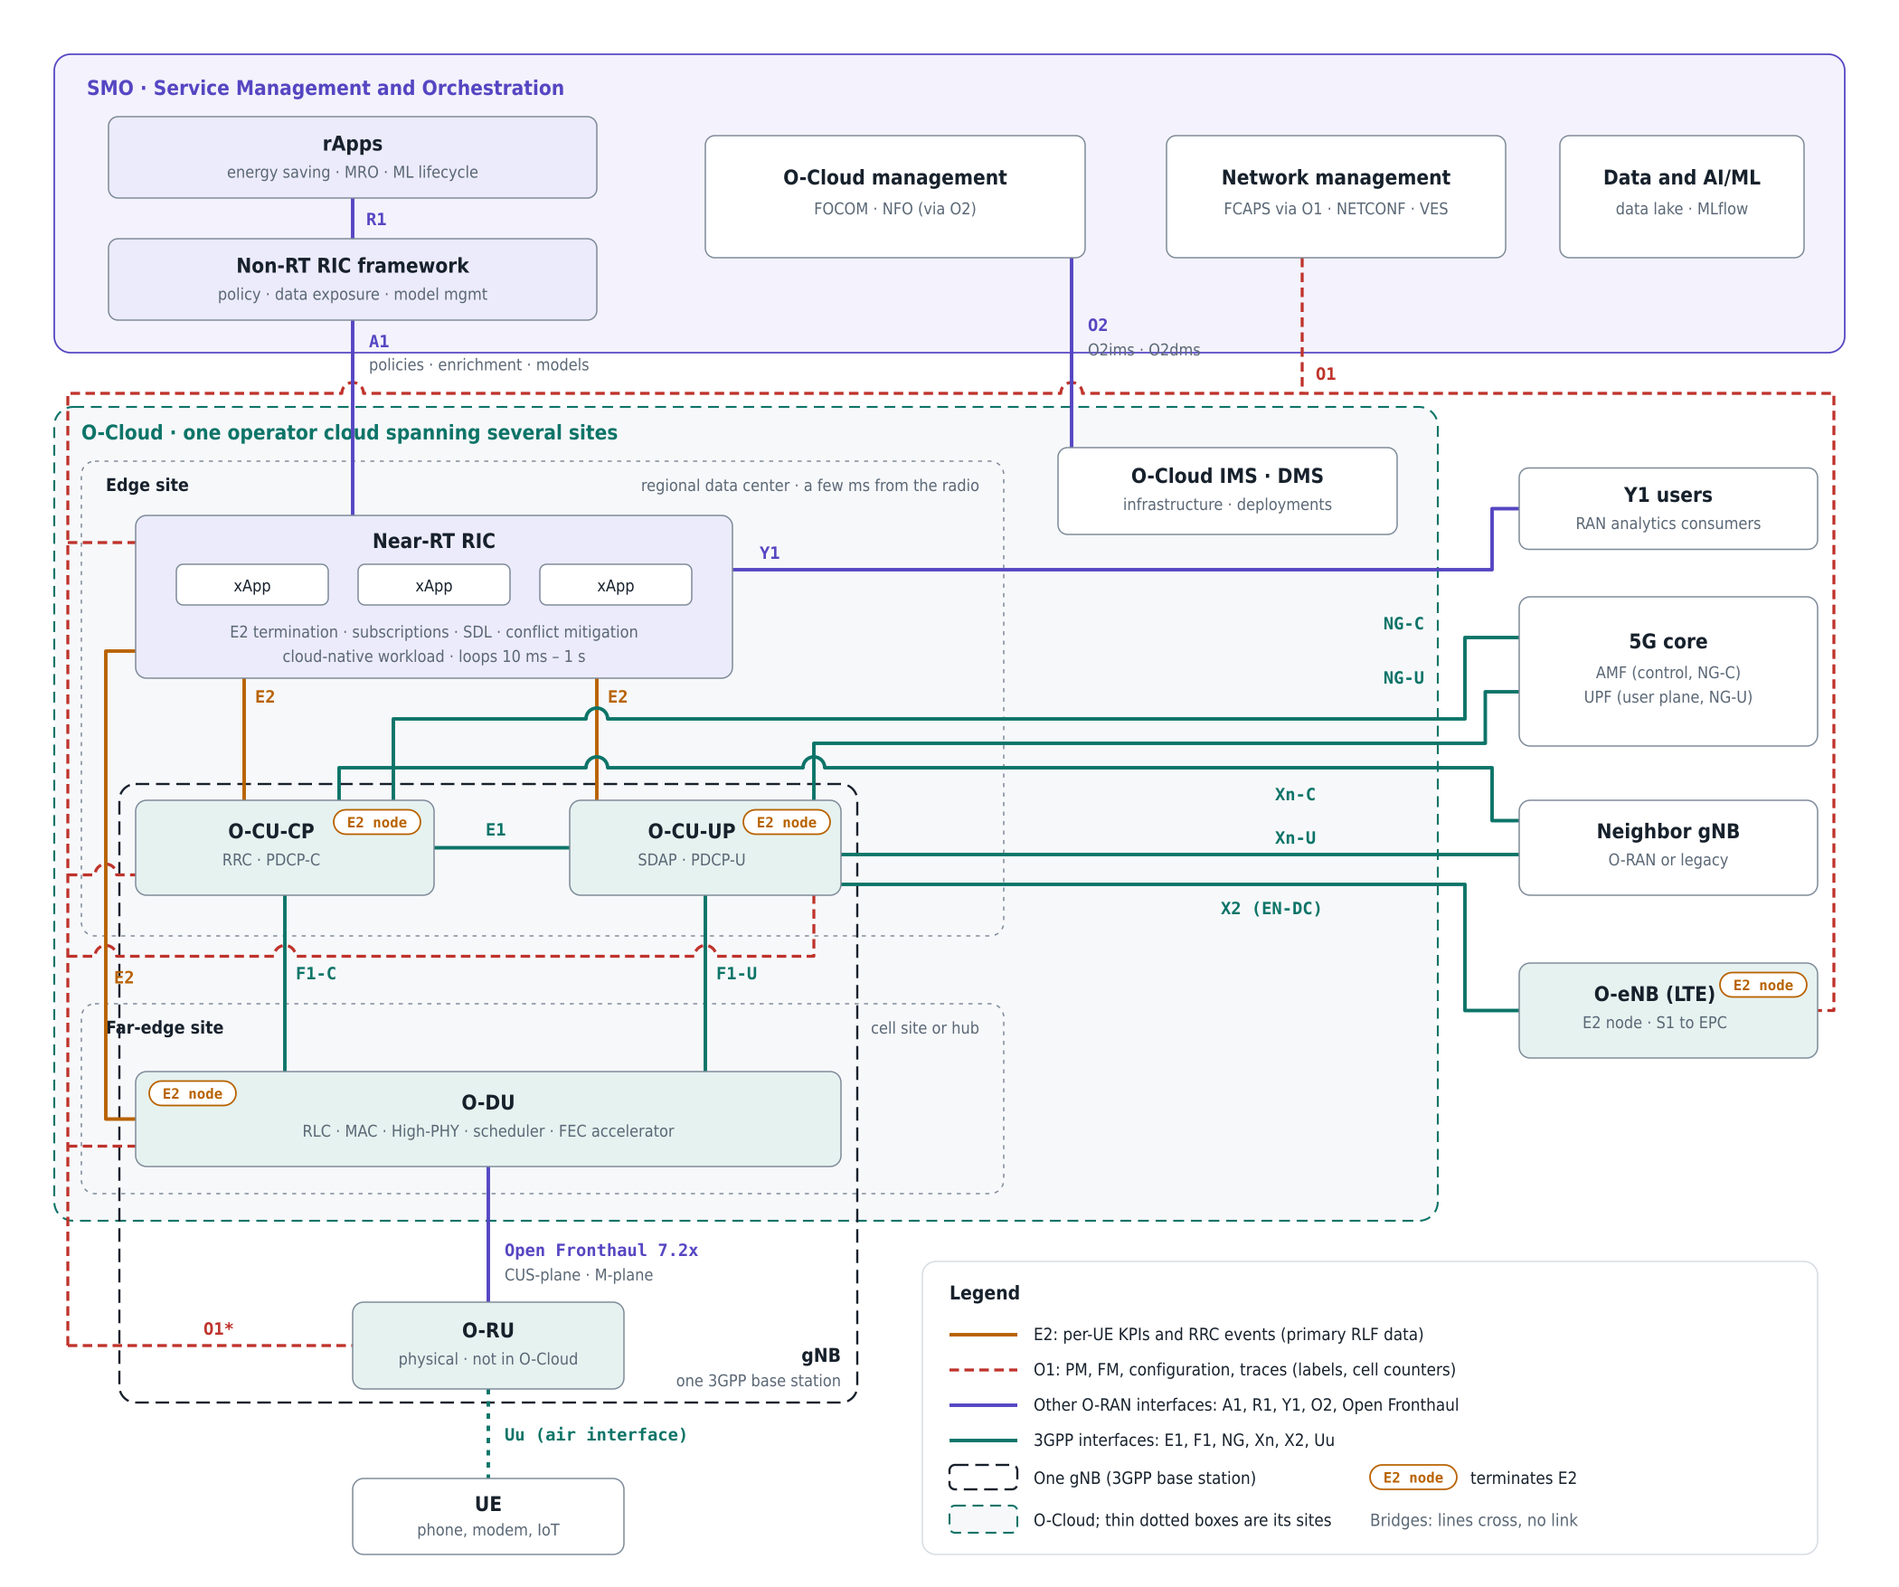
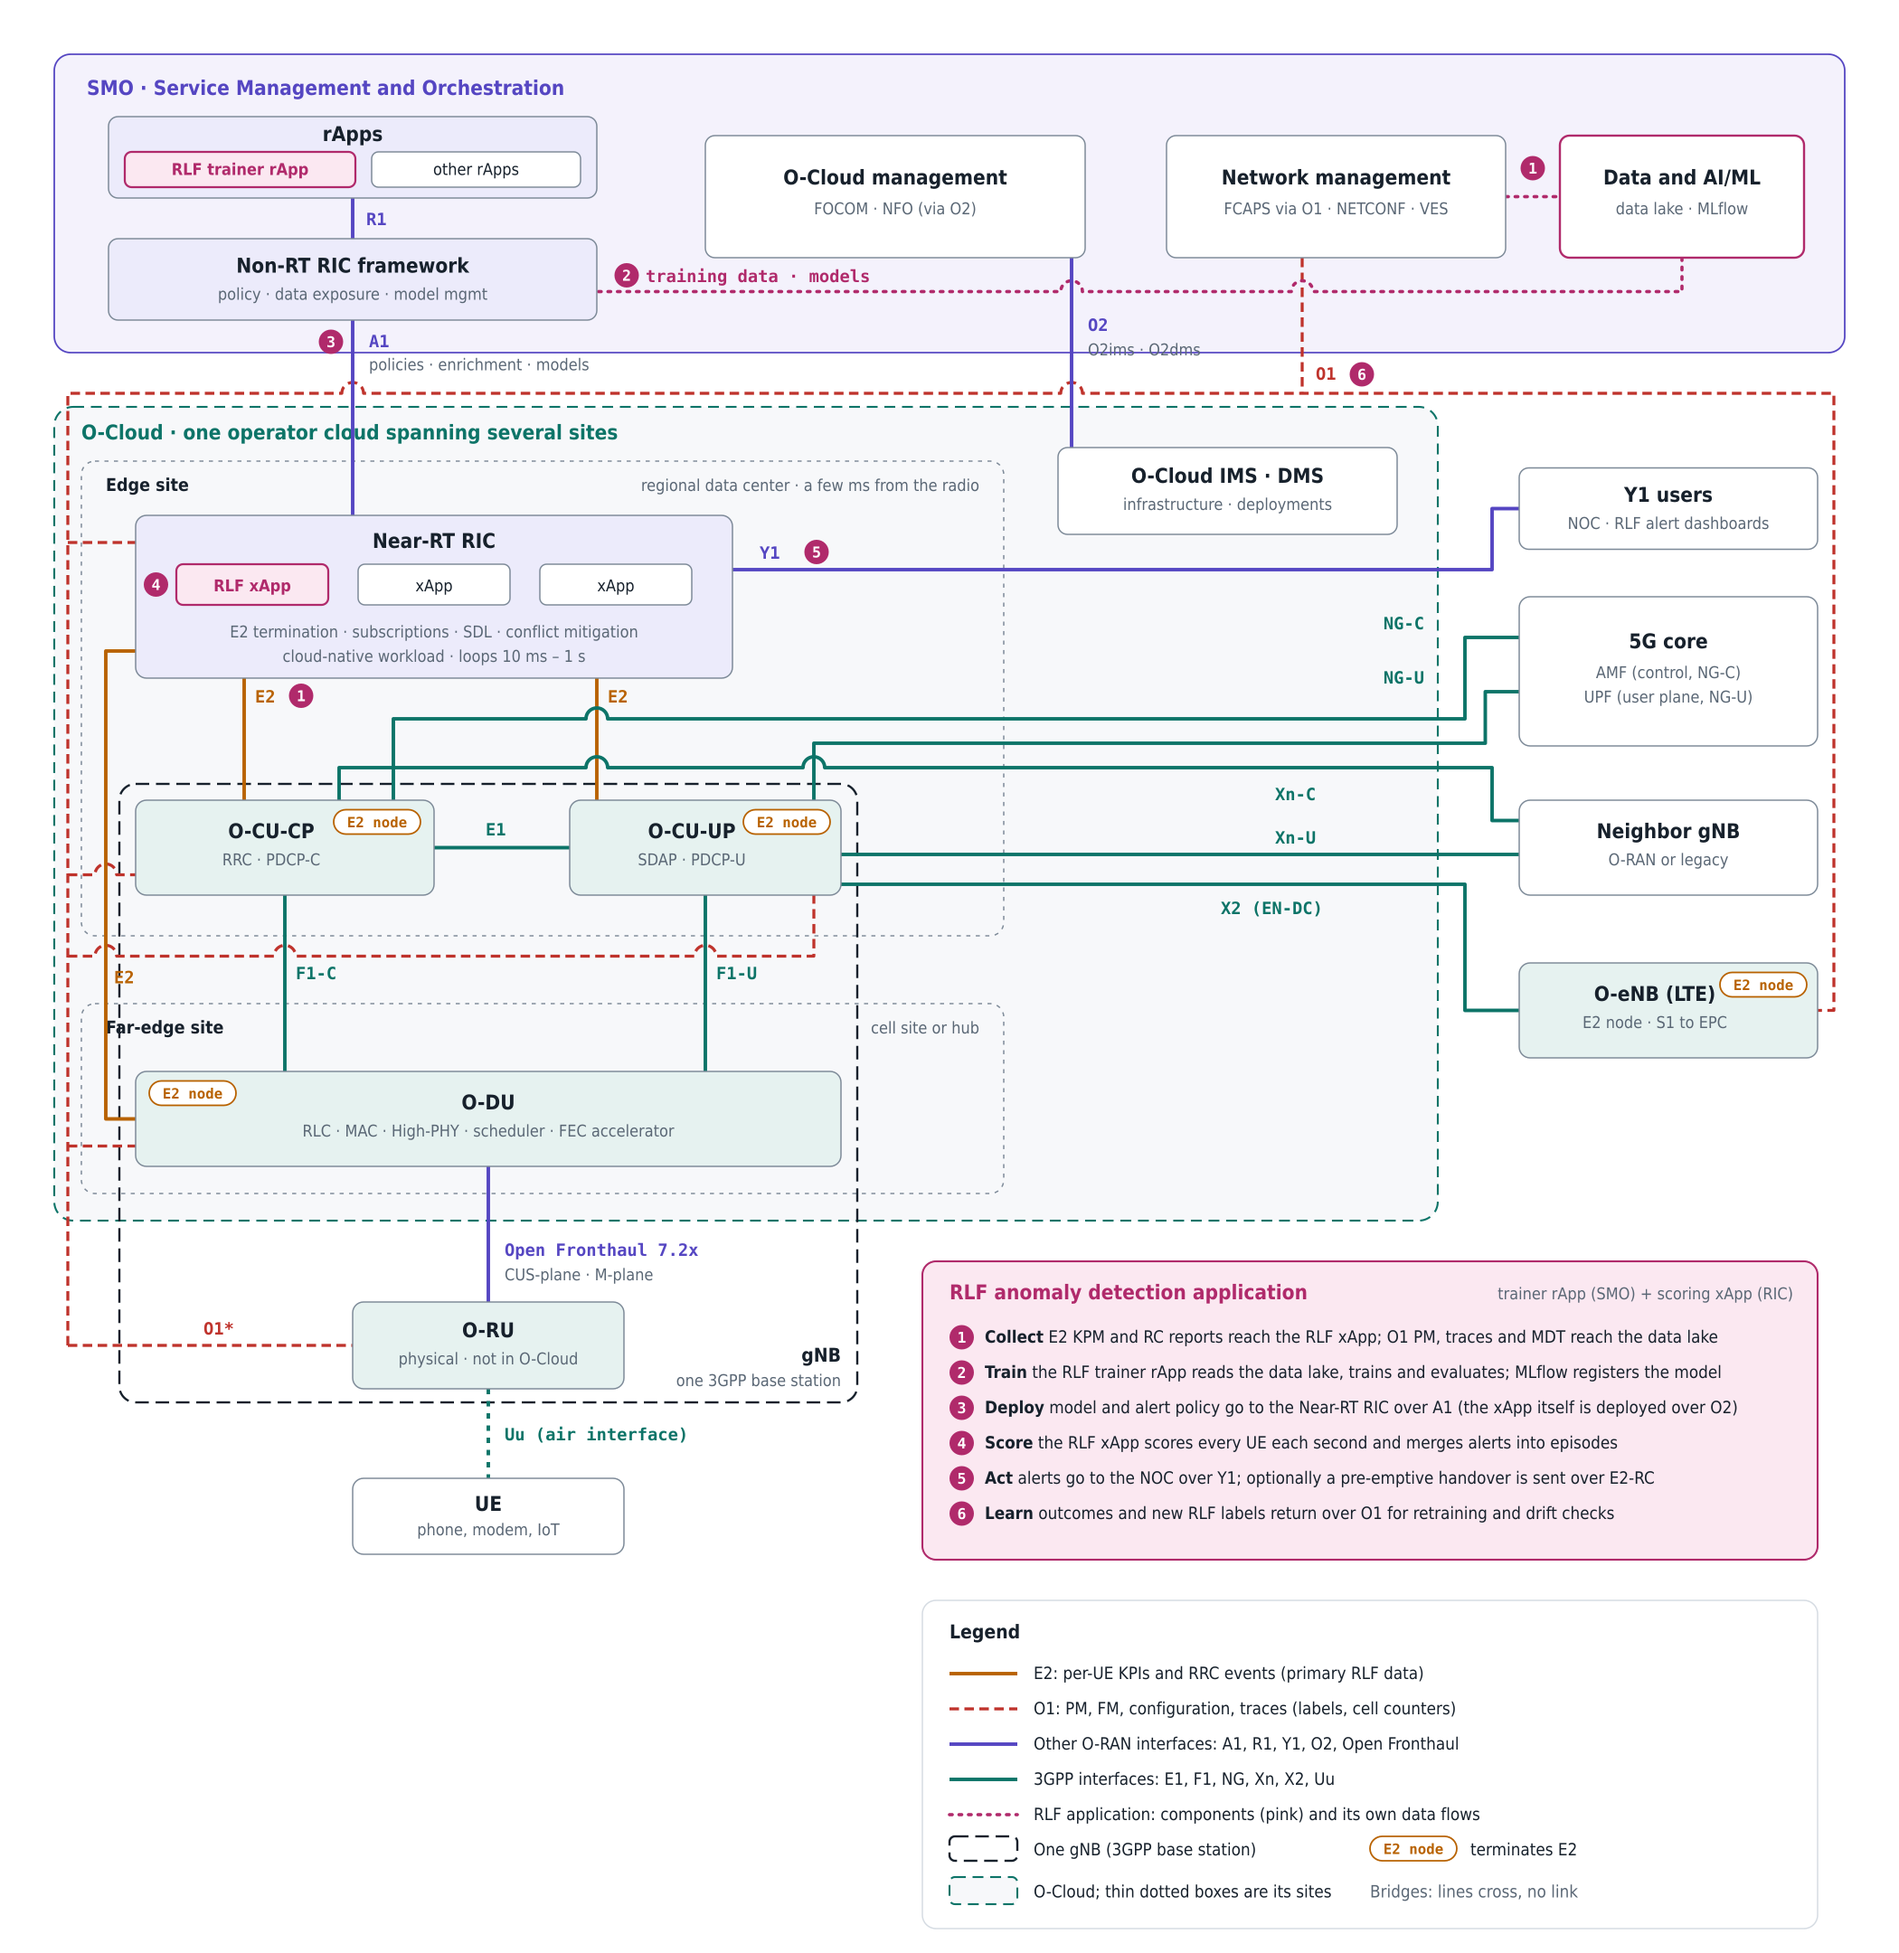
docs: show the RLF anomaly detection application in the O-RAN diagram
Add the RLF trainer rApp, the RLF xApp and the data and MLflow platform to
the architecture picture, with the application's data flows and six
numbered steps (collect, train, deploy, score, act, learn). Add a README
subsection explaining where the application sits and which interfaces each
step uses.

Claude-Session: https://claude.ai/code/session_018LygYm73Mrxa2JvYqFDpGM

diff --git a/README.md b/README.md
@@ -36,7 +36,7 @@ The experiment predicts radio link failures (RLF) from per-UE KPIs. In a real O-
 
 ![O-RAN logical architecture and interfaces](docs/oran-architecture.png)
 
-*Logical view based on the O-RAN Alliance architecture, for NR standalone plus EN-DC. Amber (E2) and red dashed (O1) are the two interfaces that carry the experiment's data; purple lines are the other O-RAN interfaces and teal lines are 3GPP interfaces. The black dashed outline is one gNB, the amber tags mark E2 nodes, and the O-Cloud spans an edge site and a far-edge site. A vector version is in [`docs/oran-architecture.svg`](docs/oran-architecture.svg).*
+*Logical view based on the O-RAN Alliance architecture, for NR standalone plus EN-DC. Amber (E2) and red dashed (O1) are the two interfaces that carry the experiment's data; purple lines are the other O-RAN interfaces and teal lines are 3GPP interfaces. The black dashed outline is one gNB, the amber tags mark E2 nodes, and the O-Cloud spans an edge site and a far-edge site. Pink marks the RLF anomaly detection application: its components, its own data flows and numbered steps explained in [Where the RLF application sits](#where-the-rlf-application-sits). A vector version is in [`docs/oran-architecture.svg`](docs/oran-architecture.svg).*
 
 ### O-RAN in brief
 
@@ -120,6 +120,27 @@ Both are third-party microservices that hold optimization logic on top of a RIC 
 | Data | E2 reports (KPM, RRC events) | O1 PM, FM, CM and traces, external data |
 | AI/ML role | Mostly inference | Training, model management, analytics |
 | RLF role in this project | Score each UE every second from E2 data; trigger a pre-emptive handover over E2-RC within policy | Retrain the model on O1 traces and labels; tune per-cell handover parameters; send A1 policies such as a cap on pre-emptive handovers |
+
+#### Where the RLF application sits
+
+The RLF anomaly detection application is not one box but two cooperating components, one per RIC, plus the SMO's data and ML platform. They are pink in the diagram, and the numbers below match the numbered markers.
+
+| Component | Location | Job |
+| --- | --- | --- |
+| **RLF trainer rApp** | Non-RT RIC, in the SMO | Builds features and labels from the data lake, trains and evaluates the models (`RLF_features.py`, `RLF_train.py`), and decides the alert policy |
+| **Data and AI/ML platform** | SMO | Data lake for O1 data, plus MLflow tracking and the model registry |
+| **RLF xApp** | Near-RT RIC, edge site | Receives E2 data, runs the registered model, raises alerts and, optionally, mitigation |
+
+| Step | What happens | Interfaces |
+| --- | --- | --- |
+| 1. Collect | E2SM-KPM and E2SM-RC reports reach the RLF xApp; O1 PM, traces and MDT flow through network management into the data lake | E2, O1 |
+| 2. Train | The trainer rApp reads training data from the data lake, trains and compares models, and registers the chosen one in MLflow | R1 (data management and exposure), inside the SMO |
+| 3. Deploy | The model and its alert policy (threshold, alert budget, action limits) go to the Near-RT RIC; the xApp workload itself is deployed on the O-Cloud | A1 for model and policy, O2 for the xApp |
+| 4. Score | The xApp scores every UE each second from its feature window and merges alerts within one horizon into episodes | Inside the Near-RT RIC |
+| 5. Act | Alerts go to NOC dashboards and the OSS; in the closed-loop phase, a pre-emptive handover or parameter change is sent to the O-CU-CP | Y1 for alerts, E2-RC for actions |
+| 6. Learn | Outcomes (did an RLF follow?) and new labels return to the data lake for retraining and drift monitoring | O1, E2 |
+
+During the experiment only steps 1 and 2 exist, on synthetic data. Steps 3 to 6 are the path described in [From experiment to a service assurance application](#from-experiment-to-a-service-assurance-application) and [Evolving into an automated closed loop with the SMO](#evolving-into-an-automated-closed-loop-with-the-smo).
 
 ### Interfaces
 
